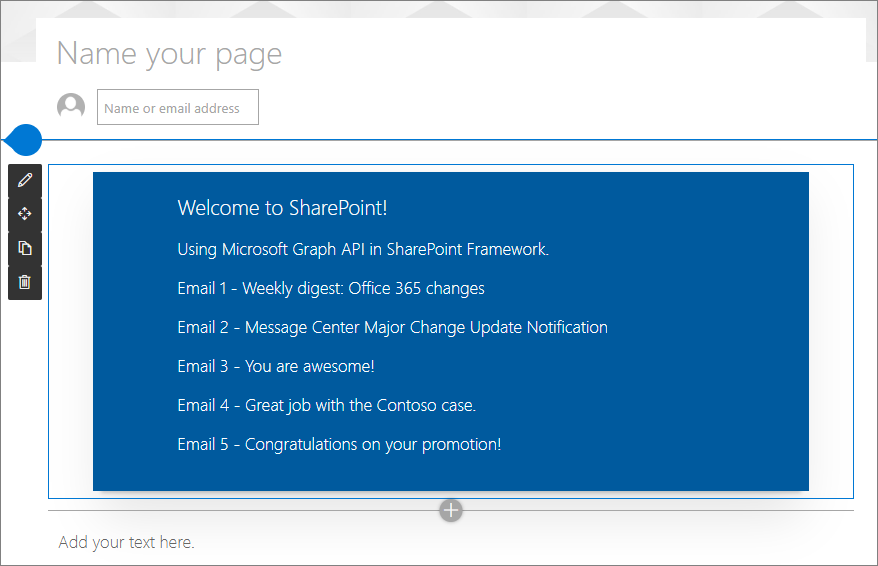
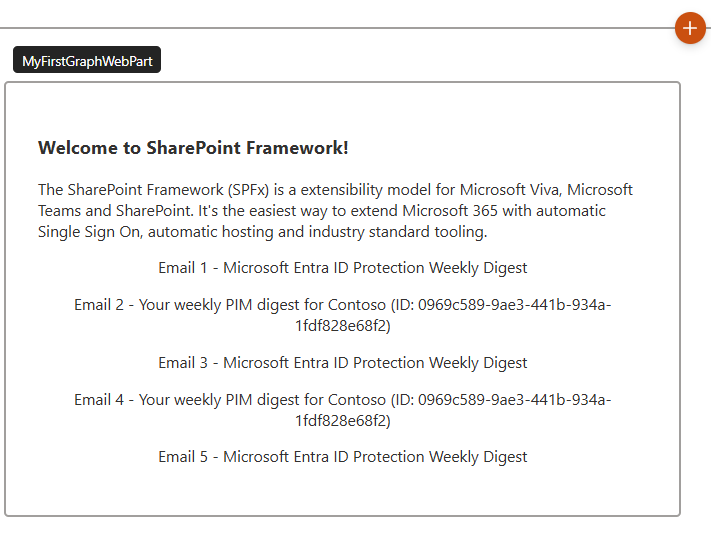
Update graph and guidance docs to heft (#10561)
* Update add-jqueryui-accordion-to-web-part.md: migrate to heft and fix export pattern

* Update Graph API and preconfigured entries docs: migrate to heft and modernize

* Updated the date

* Updated Build Microsoft Teams tab using SharePoint Framework - Tutorial to heft

* Updated Provision SharePoint assets from your SharePoint client-side web part to heft

* Update Build a SharePoint web part with the Microsoft Graph Toolkit to heft

* Delete docs/images/graph-helloworld-webpart-on-page.png

As its width does not match documentation

* Resized image

* Made heft command bold

* Revise jQueryUI -- kept --nobrowser

* fix: correct Gulp to Heft build/package command mapping

* fix: correct Gulp to Heft build/package command mapping

diff --git a/docs/spfx/web-parts/get-started/using-microsoft-graph-apis.md b/docs/spfx/web-parts/get-started/using-microsoft-graph-apis.md
@@ -1,7 +1,7 @@
 ---
 title: Building SharePoint Framework solutions, which use Microsoft Graph
 description: Getting started tutorial on using Microsoft Graph with SharePoint Framework solutions
-ms.date: 11/24/2022
+ms.date: 01/01/2026
 ms.localizationpriority: high
 ---
 
@@ -18,8 +18,6 @@ Before you start, complete the procedures in the following articles to ensure th
 You can also follow these steps by watching this video on the Microsoft 365 Platform Community (PnP) YouTube Channel:
 
 > [!Video https://www.youtube.com/embed/tHzbh5JoC-A]
-
-[!INCLUDE [spfx-gulp-heft-migration-wip](../../../../includes/snippets/spfx-gulp-heft-migration-wip.md)]
 
 ## Create a SharePoint Framework project for Microsoft Graph usage
 
@@ -99,7 +97,7 @@ In this case, we'll include the solution-specific permissions in the package.
 In this case, we'll modify the code to use Microsoft Graph to get access on the current user's last five emails.
 
 1. Open **./src/webparts/helloWorld/MyFirstGraphWebPartWebPart.ts**.
-1. Add the following `import` statements after the existing `import` statements at the top fo the file:
+1. Add the following `import` statements after the existing `import` statements at the top of the file:
 
     ```typescript
     import { MSGraphClientV3 } from '@microsoft/sp-http';
@@ -111,30 +109,34 @@ In this case, we'll modify the code to use Microsoft Graph to get access on the 
     ```typescript
     public render(): void {
       this.context.msGraphClientFactory
-      .getClient('3')
-      .then((client: MSGraphClientV3): void => {
-        // get information about the current user from the Microsoft Graph
-        client
-        .api('/me/messages')
-        .top(5)
-        .orderby("receivedDateTime desc")
-        .get((error, messages: any, rawResponse?: any) => {
+        .getClient('3')
+        .then((client: MSGraphClientV3): Promise<void> => {
+          // get information about the current user from the Microsoft Graph
+          return client
+            .api('/me/messages')
+            .top(5)
+            .orderby("receivedDateTime desc")
+            .get()
+            .then((messages: {value: MicrosoftGraph.Message[]}) => {
 
-          this.domElement.innerHTML = `
-          <div class="${styles.myFirstGraphWebPart}">
-            <div>
-                <h3>Welcome to SharePoint Framework!</h3>
-                <p>
-                    The SharePoint Framework (SPFx) is a extensibility model for Microsoft Viva, Microsoft Teams and SharePoint. It's the easiest way to extend Microsoft 365 with automatic Single Sign On, automatic hosting and industry standard tooling.
-                </p>
-            </div>
-            <div id="spListContainer" />
-          </div>`;
+              this.domElement.innerHTML = `
+                <div class="${styles.myFirstGraphWebPart}">
+                  <div>
+                    <h3>Welcome to SharePoint Framework!</h3>
+                    <p>
+                      The SharePoint Framework (SPFx) is a extensibility model for Microsoft Viva, Microsoft Teams and SharePoint. It's the easiest way to extend Microsoft 365 with automatic Single Sign On, automatic hosting and industry standard tooling.
+                    </p>
+                  </div>
+                  <div id="spListContainer" />
+                </div>`;
 
-          // List the latest emails based on what we got from the Graph
-          this._renderEmailList(messages.value);
+              // List the latest emails based on what we got from the Graph
+              this._renderEmailList(messages.value);
+            });
+        })
+        .catch((error) => {
+          console.error('Error fetching messages:', error);
         });
-      });
     }
     ```
 
@@ -144,12 +146,14 @@ In this case, we'll modify the code to use Microsoft Graph to get access on the 
     private _renderEmailList(messages: MicrosoftGraph.Message[]): void {
       let html: string = '';
       for (let index = 0; index < messages.length; index++) {
-        html += `<p class="${styles.welcome}">Email ${index + 1} - ${escape(messages[index].subject)}</p>`;
+        html += `<p class="${styles.welcome}">Email ${index + 1} - ${escape(messages[index].subject ?? '')}</p>`;
       }
 
       // Add the emails to the placeholder
-      const listContainer: Element = this.domElement.querySelector('#spListContainer');
-      listContainer.innerHTML = html;
+      const listContainer: Element | null = this.domElement.querySelector('#spListContainer');
+      if (listContainer) {
+        listContainer.innerHTML = html;
+      }
     }
     ```
 
@@ -158,13 +162,13 @@ In this case, we'll modify the code to use Microsoft Graph to get access on the 
 1. Execute the following commands to build bundle your solution. This executes a release build of your project by using a dynamic label as the host URL for your assets.
 
     ```console
-    gulp bundle --ship
+    heft build --production
     ```
 
 1. Execute the following task to package your solution. This creates an updated **graph-apis.sppkg** package on the **sharepoint/solution** folder.
 
     ```console
-    gulp package-solution --ship
+    heft package-solution --production
     ```
 
 Next, you need to deploy the package that was generated to the tenant App Catalog.

diff --git a/docs/spfx/web-parts/get-started/add-jqueryui-accordion-to-web-part.md b/docs/spfx/web-parts/get-started/add-jqueryui-accordion-to-web-part.md
@@ -1,7 +1,7 @@
 ---
 title: Add the jQueryUI Accordion to your SharePoint client-side web part
 description: Adding the jQueryUI Accordion to your web part project involves creating a new web part.
-ms.date: 10/21/2021
+ms.date: 12/31/2025
 ms.localizationpriority: high
 ms.custom: scenarios:getting-started
 ---
@@ -11,8 +11,6 @@ ms.custom: scenarios:getting-started
 Adding the jQueryUI Accordion to your web part project involves creating a new web part, as shown in the following image.
 
 ![Screenshot of a web part that includes a jQuery Accordion](../../../images/jquery-accordion-wb.png)
-
-[!INCLUDE [spfx-gulp-heft-migration-wip](../../../../includes/snippets/spfx-gulp-heft-migration-wip.md)]
 
 Ensure that you've completed the following steps before you start:
 
@@ -150,7 +148,7 @@ By default, all dependencies referenced in your project's code are included in t
 
 ## Build the Accordion
 
-At this point, the project is configured to depend on jQuery and jQueryUI, but to not include the in the resulting solution's bundle. The next step is to implement the web part by adding the Accordion to the web part.
+At this point, the project is configured to depend on jQuery and jQueryUI, but to not include them in the resulting solution's bundle. The next step is to implement the web part by adding the Accordion to the web part.
 
 ### Add the Accordion HTML
 
@@ -158,7 +156,7 @@ At this point, the project is configured to depend on jQuery and jQueryUI, but t
 1. Add class `MyAccordionTemplate` that contains the HTML for the accordion. Add the following code to the **MyAccordionTemplate.ts** file:
 
     ```typescript
-    export default class MyAccordionTemplate {
+    class MyAccordionTemplate {
       public static templateHtml: string =  `
         <div class="accordion">
           <h3>Section 1</h3>
@@ -209,6 +207,7 @@ At this point, the project is configured to depend on jQuery and jQueryUI, but t
           </div>
       </div>`;
     }
+    export default MyAccordionTemplate;
     ```
 
 1. Save the file.
@@ -289,7 +288,7 @@ At this point, the project is configured to depend on jQuery and jQueryUI, but t
 1. Finally, initialize the accordion:
 
     ```typescript
-    jQuery('.accordion', this.domElement).accordion(accordionOptions);
+    (jQuery as any)('.accordion', this.domElement).accordion(accordionOptions);
     ```
 
     As you can see, you use the variable `jQuery` that you used to import the `jquery` module. You then initialize the accordion.
@@ -309,7 +308,7 @@ At this point, the project is configured to depend on jQuery and jQueryUI, but t
         }
       };
 
-      jQuery('.accordion', this.domElement).accordion(accordionOptions);
+      (jQuery as any)('.accordion', this.domElement).accordion(accordionOptions);
     }
     ```
 
@@ -320,7 +319,7 @@ At this point, the project is configured to depend on jQuery and jQueryUI, but t
 1. In your console, ensure that you're still in the **jquery-webpart** folder, and execute the following to build and preview your web part:
 
     ```console
-    gulp serve --nobrowser
+    heft start --nobrowser
     ```
 
     Once the web server starts, open a browser and navigate to a SharePoint site's hosted workbench to test your project. For example: `https://contoso.sharepoint.com/sites/devsite/_layouts/workbench.aspx`.
@@ -329,4 +328,5 @@ At this point, the project is configured to depend on jQuery and jQueryUI, but t
 
     ![Screenshot of a web part that includes a jQuery Accordion](../../../images/jquery-accordion-wb.png)
 
-1. In the console where you have **gulp serve** running, select <kbd>CTRL</kbd>+<kbd>C</kbd> to terminate the task.
+1. In the console where you have **heft start** running, select <kbd>CTRL</kbd>+<kbd>C</kbd> to terminate the task.
+

diff --git a/docs/spfx/web-parts/get-started/provision-sp-assets-from-package.md b/docs/spfx/web-parts/get-started/provision-sp-assets-from-package.md
@@ -1,7 +1,7 @@
 ---
 title: Provision SharePoint assets from your SharePoint client-side web part
 description: SharePoint assets can be provisioned as part of the SharePoint Framework solution, and deployed to SharePoint sites when the solution is installed on it.
-ms.date: 05/03/2023
+ms.date: 01/05/2025
 ms.localizationpriority: high
 ms.custom: scenarios:getting-started
 ---
@@ -21,8 +21,6 @@ Before you start, complete the procedures in the following articles to ensure th
 You can also follow these steps by watching this video on the Microsoft 365 Platform Community (PnP) YouTube Channel:
 
 > [!Video https://www.youtube.com/embed/09uoG6Voeew]
-
-[!INCLUDE [spfx-gulp-heft-migration-wip](../../../../includes/snippets/spfx-gulp-heft-migration-wip.md)]
 
 ## Create a new web part project
 
@@ -253,13 +251,13 @@ Now you're ready to deploy the solution to SharePoint. Because we're provisionin
 1. In the console, execute the following command to package your client-side solution that contains the web part to get the basic structure ready for packaging:
 
     ```console
-    gulp bundle
+    heft build
     ```
 
 1. Execute the following command to create the solution package:
 
     ```console
-    gulp package-solution
+    heft package-solution
     ```
 
     The command creates the **asset-deployment-webpart.sppkg** package in the **sharepoint/solution** folder.
@@ -389,13 +387,13 @@ Next, we need to update both the solution version and the feature version respon
 1. In the console window, execute the following command to repackage your client-side solution that contains the web part so that we get the basic structure ready for packaging:
 
     ```console
-    gulp bundle
+    heft build 
     ```
 
 1. Execute the following command to create the solution package:
 
     ```console
-    gulp package-solution
+    heft package-solution
     ```
 
     The command creates a new version of the solution package in the **sharepoint/solution** folder. Notice that you can easily confirm from the **sharepoint/solution/debug** folder that the updated XML files are included in the solution package.
@@ -447,3 +445,4 @@ With the package been updated in the app catalog, we can move to the SharePoint 
 
 - [Provision SharePoint assets with your solution package](../../toolchain/provision-sharepoint-assets.md)
 - [Sample solution - Deployment of SharePoint assets as part of SPFx package](https://github.com/SharePoint/sp-dev-fx-webparts/tree/master/samples/react-feature-framework)
+

diff --git a/docs/spfx/web-parts/get-started/using-web-part-as-ms-teams-tab.md b/docs/spfx/web-parts/get-started/using-web-part-as-ms-teams-tab.md
@@ -1,7 +1,7 @@
 ---
 title: Build Microsoft Teams tab using SharePoint Framework - Tutorial
 description: Tutorial on how to build Microsoft Teams tabs using SharePoint Framework. Capability was released to general availability in SharePoint Framework v1.8.
-ms.date: 10/21/2021
+ms.date: 01/02/2026
 ms.localizationpriority: high
 ---
 
@@ -21,8 +21,6 @@ Before you start, complete the procedures in the following articles to ensure th
 You can also follow these steps by watching this video on the Microsoft 365 Platform Community (PnP) YouTube Channel:
 
 > [!Video https://www.youtube.com/embed/JoTAC2i-XeU]
-
-[!INCLUDE [spfx-gulp-heft-migration-wip](../../../../includes/snippets/spfx-gulp-heft-migration-wip.md)]
 
 ## Create a Microsoft Teams tab project
 
@@ -138,9 +136,14 @@ Locate the **./src/webparts/\*\*/manifest.json** file for the web part you want 
         </div>`;
     }
     ```
-
     > [!NOTE]
     > For a full description of the information available through Microsoft Teams context for Microsoft Teams tabs, see: [Microsoft Teams developer documentation](/microsoftteams/platform/concepts/tabs/tabs-context).
+1. Update the **MyFirstTeamsTabWebPart.module.scss** file to define the CSS classes used in the render method.
+
+    Ensure your SCSS file includes the required CSS classes (`.container`, `.row`, `.column`, `.title`, `.subTitle`, `.description`, `.button`, `.label`). 
+    
+    > [!TIP]
+    > To avoid Sass deprecation warnings from Office UI Fabric Core mixins, use plain CSS properties instead of SCSS mixins like `@include ms-Grid-row` or `@include ms-fontColor-white`. Define your styles with standard CSS properties for better compatibility with newer Sass versions.
 
 ## Package and deploy your web part to SharePoint
 
@@ -149,13 +152,13 @@ Ensure that your console is activated in the root folder of the solution where w
 1. Execute the following commands to build bundle your solution. This executes a release build of your project by using a dynamic label as the host URL for your assets.
 
     ```console
-    gulp bundle --ship
+    heft build --production
     ```
 
 1. Execute the following task to package your solution. This creates an updated **teams-tab-webpart.sppkg** package on the **sharepoint/solution** folder.
 
     ```console
-    gulp package-solution --ship
+    heft package-solution --production
     ```
 
 1. Next, you need to deploy the package that was generated to the tenant App Catalog.

diff --git a/docs/spfx/web-parts/get-started/build-web-part-microsoft-graph-toolkit.md b/docs/spfx/web-parts/get-started/build-web-part-microsoft-graph-toolkit.md
@@ -1,7 +1,7 @@
 ---
 title: Build a SharePoint web part with the Microsoft Graph Toolkit
 description: Get started using the Microsoft Graph Toolkit to build a SharePoint web part.
-ms.date: 12/10/2025
+ms.date: 01/05/2025
 ms.localizationpriority: high
 ---
 
@@ -22,8 +22,6 @@ Getting started involves the following steps:
 1. Deploy the Microsoft Graph Toolkit SharePoint Framework package.
 1. Build and deploy your web part.
 1. Test your web part.
-
-[!INCLUDE [spfx-gulp-heft-migration-wip](../../../../includes/snippets/spfx-gulp-heft-migration-wip.md)]
 
 ## Set up your SharePoint Framework development environment and create a new web part
 
@@ -121,8 +119,8 @@ After downloading the Microsoft Graph Toolkit SharePoint Framework .sppkg packag
 Now, you will build your application and deploy it to SharePoint. Build your application by running the following commands:
 
 ```bash
-gulp bundle
-gulp package-solution
+heft build 
+heft package-solution 
 ```
 
 In the `sharepoint/solution` folder, there will be a new `.sppkg` file. You will need to upload this file to your SharePoint Online App Catalog. Go to the [More features page of your SharePoint admin center](https://admin.microsoft.com/sharepoint?page=classicfeatures&modern=true). Select **Open** under **Apps**, then click **App Catalog**, and **Distribute apps for SharePoint**. Upload your `.sppkg` file, and click **Deploy**.
@@ -144,10 +142,10 @@ Open the `config\serve.json` file in your project and replace the  value of `ini
 Save the file and then run the following command in the console to build and preview your web part:
 
 ```bash
-gulp serve
+heft start
 ```
 
-Your hosted workbench will automatically open in your browser. Add your web part to the page and you should see your web part with the Microsoft Graph Toolkit components in action! As long as the gulp serve command is still running in your console, you can continue to make edits to your code and then just refresh your browser to see your changes.
+Your hosted workbench will automatically open in your browser. Add your web part to the page and you should see your web part with the Microsoft Graph Toolkit components in action! As long as the **heft start** command is still running in your console, you can continue to make edits to your code and then just refresh your browser to see your changes.
 
 ## Next Steps
 

diff --git a/docs/spfx/web-parts/guidance/simplify-adding-web-parts-with-preconfigured-entries.md b/docs/spfx/web-parts/guidance/simplify-adding-web-parts-with-preconfigured-entries.md
@@ -1,7 +1,7 @@
 ---
 title: Simplify adding web parts with preconfigured entries
 description: Use preconfigured entries in a SharePoint Framework client-side web part to provide users with preconfigured versions of your web part.
-ms.date: 06/06/2024
+ms.date: 01/01/2026
 ms.localizationpriority: high
 ---
 # Simplify adding web parts with preconfigured entries
@@ -13,8 +13,6 @@ More complex SharePoint Framework client-side web parts likely have many propert
 
 > [!WARNING]
 > SPFx solutions targeting SharePoint Server 2016 are limited to setting only a single web part property as a preconfigured entry. For more information, see [issue #5260](https://github.com/SharePoint/sp-dev-docs/issues/5260).
-
-[!INCLUDE [spfx-gulp-heft-migration-wip](../../../../includes/snippets/spfx-gulp-heft-migration-wip.md)]
 
 ## Web part preconfigured entries
 
@@ -452,7 +450,7 @@ In a real-life scenario, you would retrieve the list of lists from the current S
 1. Confirm that the project is building by running the following command:
 
     ```console
-    gulp serve
+    heft start
     ```
 
 1. In the web browser, add the web part to the canvas and open its property pane. You should see all the properties available for users to configure.
@@ -489,7 +487,7 @@ Imagine that users often use the gallery web part to show the five most recently
 1. Start debugging the project by running the following command:
 
     ```console
-    gulp serve
+    heft start
     ```
 
     > [!NOTE]
@@ -545,7 +543,7 @@ Imagine that another group of users often uses your gallery web part to show doc
 1. To see the result, start debugging the project by running the following command:
 
     ```console
-    gulp serve
+    heft start 
     ```
 
 1. When you open the web part toolbox to add the web part to the canvas, you see that there are two web parts for you to choose from.
@@ -613,7 +611,7 @@ Depending on how you build your web part, it could be possible that the web part
 1. To see the result, start debugging the project by running the following command:
 
     ```console
-    gulp serve
+    heft start
     ```
 
 1. When you open the web part toolbox to add the web part to the canvas, you see that there are now three web parts that users can choose from.
